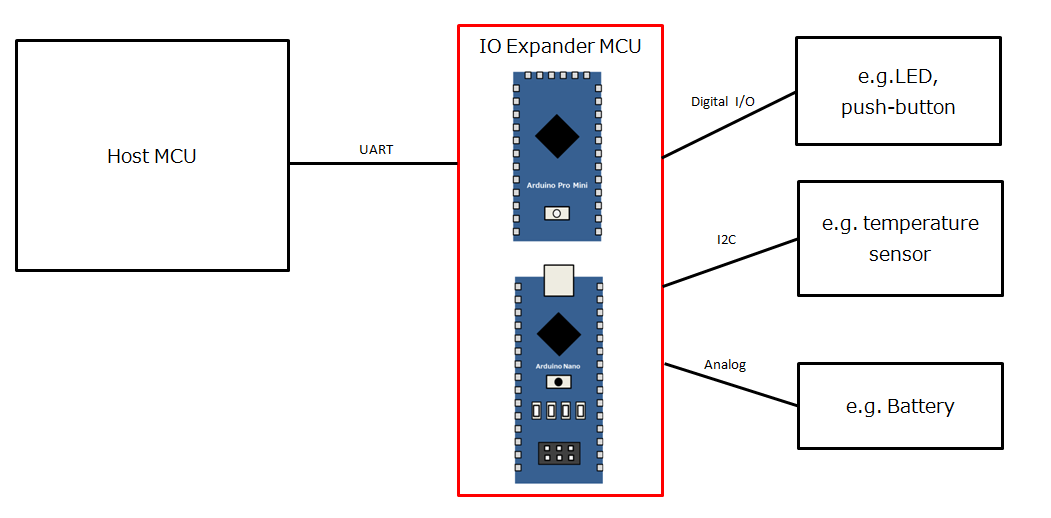
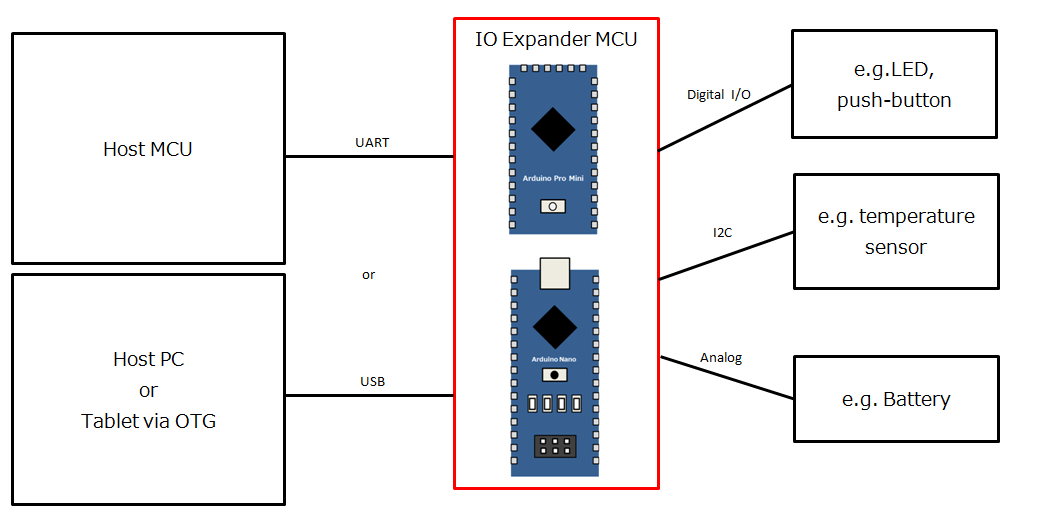
update README(add Android App)

diff --git a/README.md b/README.md
@@ -11,13 +11,13 @@ IO Expander Device Arduino Firmware with UART
 - Arduino IDE (Version: 1.8.5)
 
 ## Usage 
- - Use arduino-ioexpander-lib (Arduino Library. see [arduino-ioexpander-lib](https://github.com/bigw00d/arduino-ioexpander-lib))
+ - Use host sample application (see [arduino-ioexpander-lib(Arduino Library)](https://github.com/bigw00d/arduino-ioexpander-lib) or [android-ioexpander-host-sample(Android Sample App)](https://github.com/bigw00d/android-ioexpander-host-sample))
 
 ## Description
 
 ###  Pin connections
 
-|Host MCU  |IO expander Device  |Note  |
+|Arduino Host Dev  |IO expander Device  |Note  |
 |---|---|---|
 |TX  | RX ||
 |RX  | TX ||
